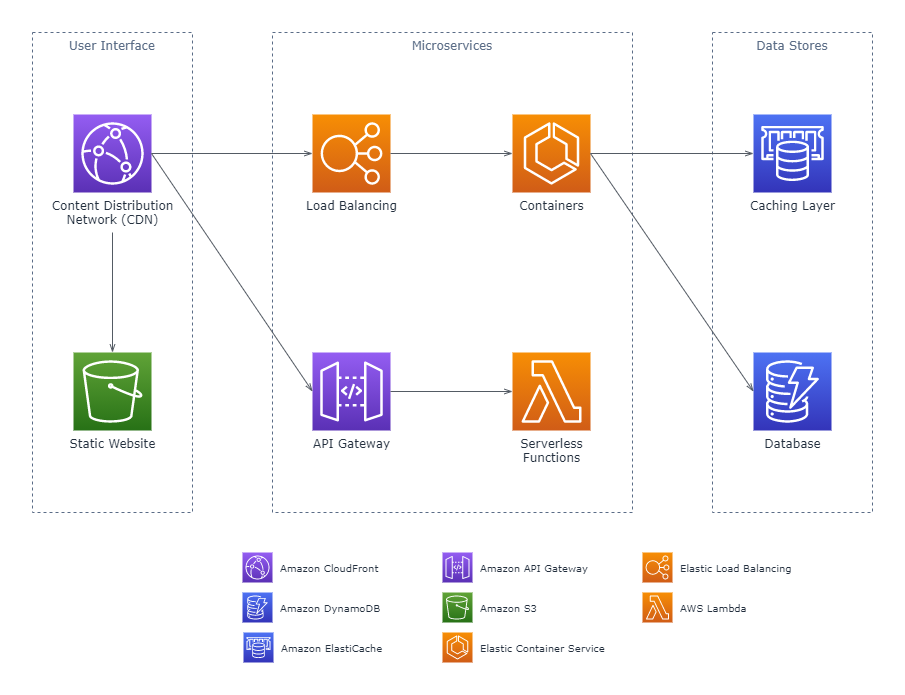
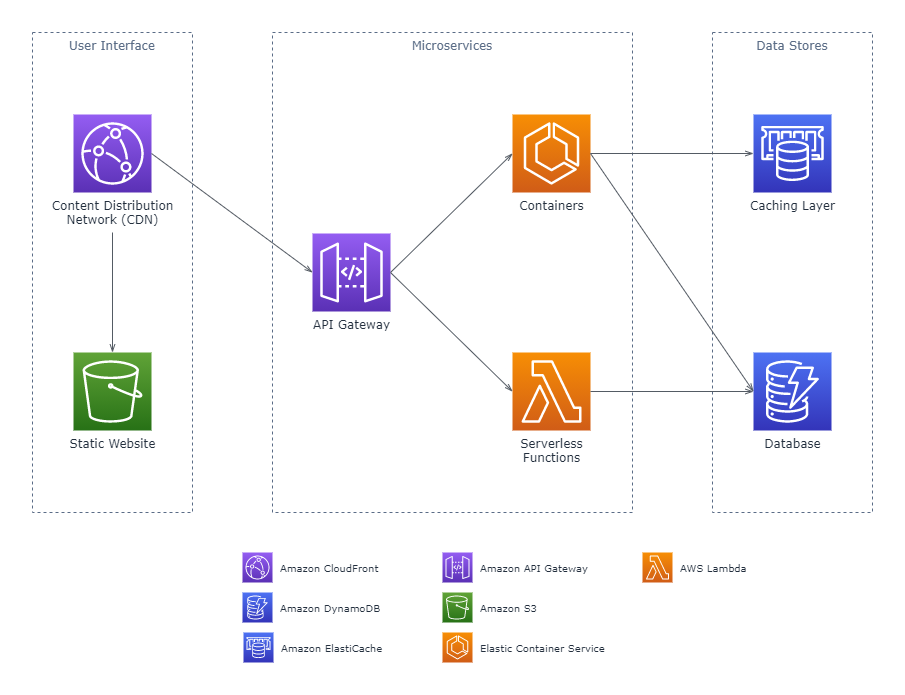
added operational complexity to microservices wtpr

diff --git a/implementing-microservices.md b/implementing-microservices.md
@@ -51,7 +51,20 @@ A typical microservices architecture splits its functionalities by implementing 
 
 # Reducing Operational Complexity
 
-#
+## API Implementation
+- Designing, monitoring, and deploying APIs can be a time-consuming task, especially when taking into consideration the following challenges:
+  - Keeping multiple versions to assure backward compatibility for all clients
+  - Development, test, and production environments
+  - Validating authorization to invoke the API
+  - Transforming requests and responses
+  - Throttling requests to avoid overloading application servers
+  - Caching responses for performance
+- [API Gateway](https://aws.amazon.com/api-gateway/) addresses those challenges, reducing the operational complexity of creating and maintaining APIs 
+
+## Serverless Microservices
+- As mentioned [earlier](#serverless-functions), serverless functions allow for executing application logic without the need to spend time and effort provisioning, managing, and scaling servers
+
+# Distributed Systems Components
 
 # References
 - [Whitepaper](https://d1.awsstatic.com/whitepapers/microservices-on-aws.pdf)
